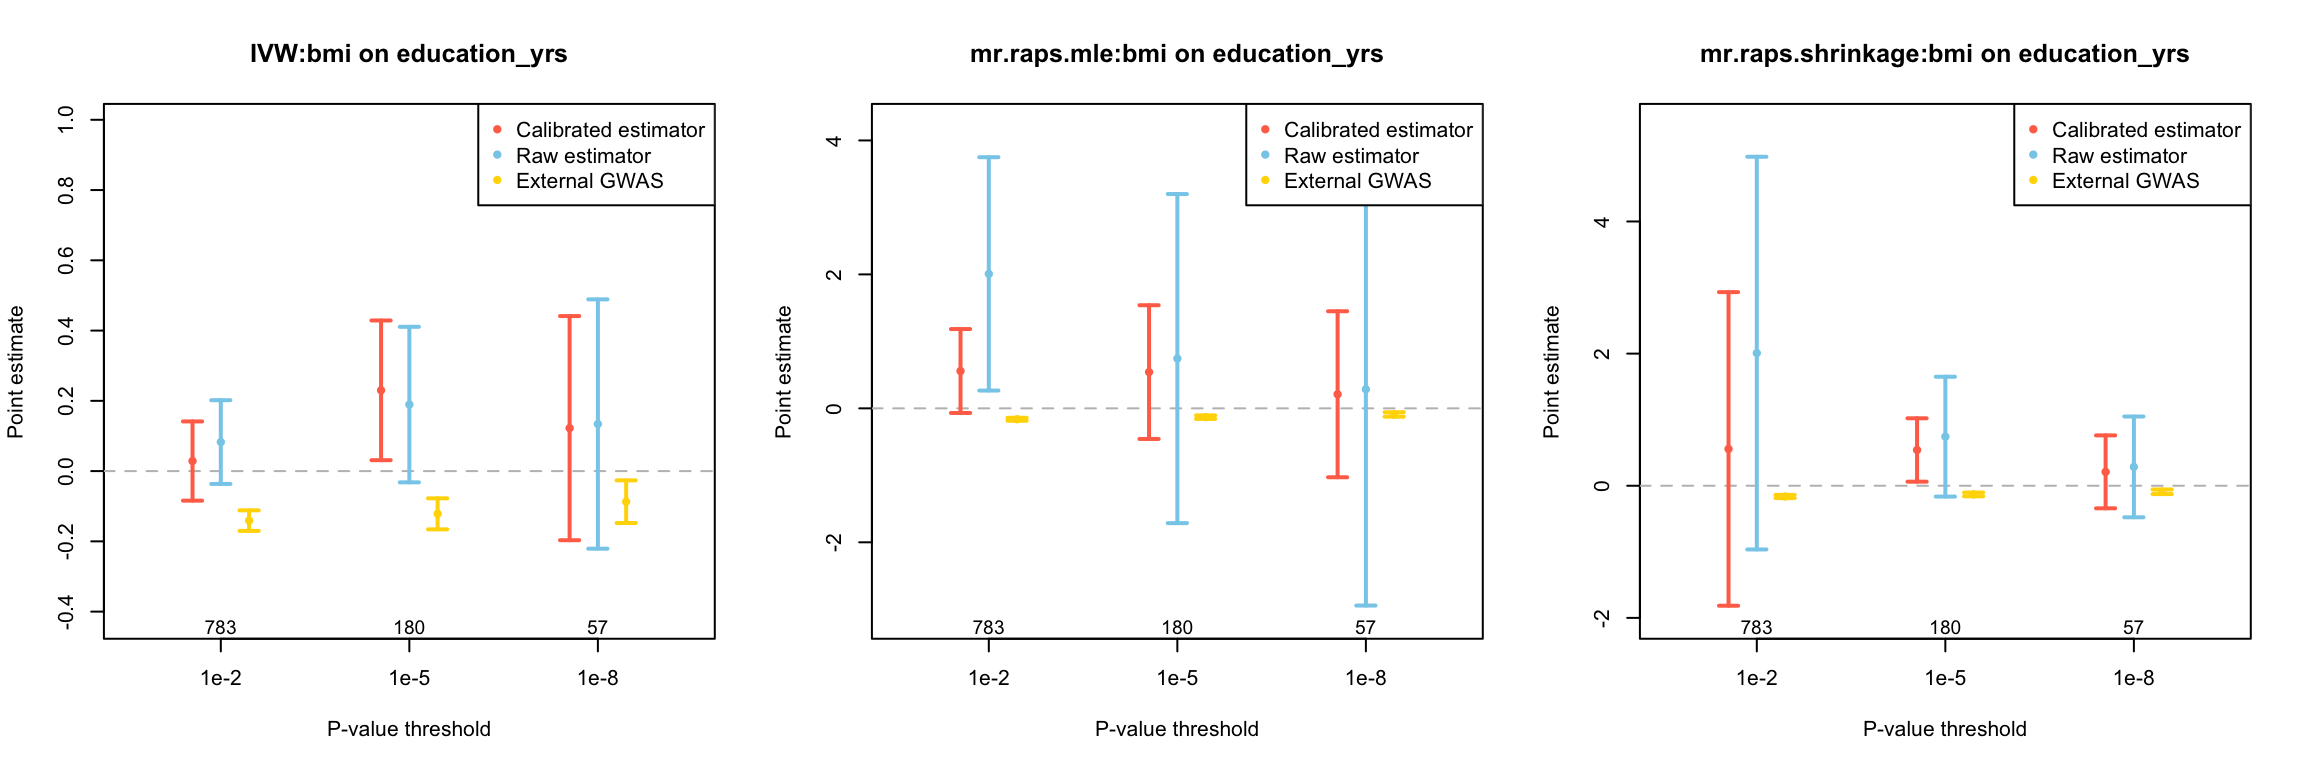
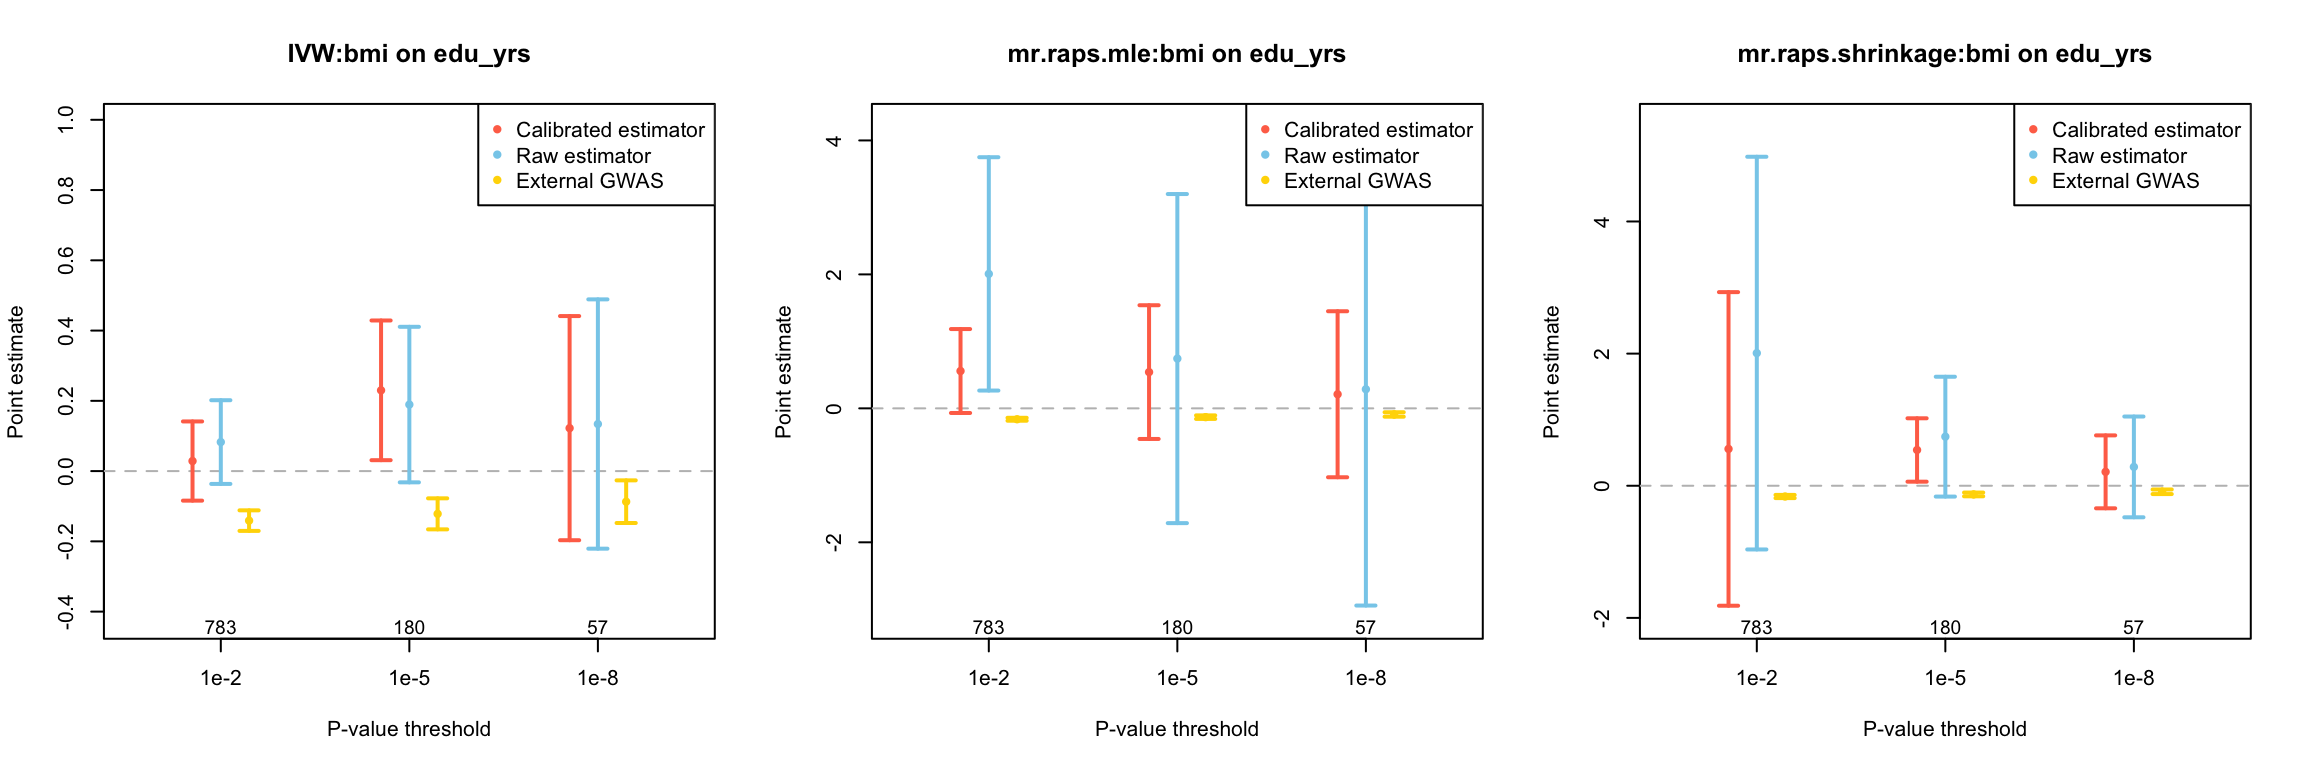
Build site.

Changed region(s): [[0.7188, 0.0625, 0.9688, 0.0938], [0.4062, 0.0625, 0.5938, 0.0938], [0.0938, 0.0625, 0.25, 0.0938]]

diff --git a/docs/real_data_mr_bmi.html b/docs/real_data_mr_bmi.html
@@ -515,16 +515,16 @@ output/ukb_mr_sib1.pdf
 <div class="panel panel-default">
 <div class="panel-heading">
 <p class="panel-title">
-<a data-toggle="collapse" data-parent="#workflowr-checks" href="#strongRepositoryversionstrongahrefhttpsgithubcomyunqiyang0215simulationcalibratedmrtree375a2378e45e9226ecb91e8d280e0e1609888e0btargetblank375a237a"> <span class="glyphicon glyphicon-ok text-success" aria-hidden="true"></span> <strong>Repository version:</strong> <a href="https://github.com/yunqiyang0215/simulation-calibrated-mr/tree/375a2378e45e9226ecb91e8d280e0e1609888e0b" target="_blank">375a237</a> </a>
+<a data-toggle="collapse" data-parent="#workflowr-checks" href="#strongRepositoryversionstrongahrefhttpsgithubcomyunqiyang0215simulationcalibratedmrtree2184d0b54edbf41bb0d4a72387c1e1c2e593053btargetblank2184d0ba"> <span class="glyphicon glyphicon-ok text-success" aria-hidden="true"></span> <strong>Repository version:</strong> <a href="https://github.com/yunqiyang0215/simulation-calibrated-mr/tree/2184d0b54edbf41bb0d4a72387c1e1c2e593053b" target="_blank">2184d0b</a> </a>
 </p>
 </div>
[2 lines of base64/hex data omitted]
 <div class="panel-body">
 <p>
 Great! You are using Git for version control. Tracking code development and connecting the code version to the results is critical for reproducibility.
 </p>
 <p>
-The results in this page were generated with repository version <a href="https://github.com/yunqiyang0215/simulation-calibrated-mr/tree/375a2378e45e9226ecb91e8d280e0e1609888e0b" target="_blank">375a237</a>. See the <em>Past versions</em> tab to see a history of the changes made to the R Markdown and HTML files.
+The results in this page were generated with repository version <a href="https://github.com/yunqiyang0215/simulation-calibrated-mr/tree/2184d0b54edbf41bb0d4a72387c1e1c2e593053b" target="_blank">2184d0b</a>. See the <em>Past versions</em> tab to see a history of the changes made to the R Markdown and HTML files.
 </p>
 <p>
 Note that you need to be careful to ensure that all relevant files for the analysis have been committed to Git prior to generating the results (you can use <code>wflow_publish</code> or <code>wflow_git_commit</code>). workflowr only checks the R Markdown file, but you know if there are other scripts or data files that it depends on. Below is the status of the Git repository when the results were generated:
@@ -537,8 +537,12 @@ Ignored files:
     Ignored:    data/.DS_Store
     Ignored:    scripts/.DS_Store
 
+Untracked files:
+    Untracked:  output/ukb_mr_sib1.pdf
+    Untracked:  output/ukb_mr_sib2.pdf
+    Untracked:  output/ukb_mr_trio1.pdf
+
 Unstaged changes:
-    Modified:   analysis/real_data_mr_height.Rmd
     Deleted:    scripts/real_data_mr_bmi.Rmd
 
 </code></pre>
@@ -578,6 +582,40 @@ Message
 </tr>
 </thead>
 <tbody>
+<tr>
+<td>
+Rmd
+</td>
+<td>
+<a href="https://github.com/yunqiyang0215/simulation-calibrated-mr/blob/2184d0b54edbf41bb0d4a72387c1e1c2e593053b/analysis/real_data_mr_bmi.Rmd" target="_blank">2184d0b</a>
+</td>
+<td>
+yunqiyang0215
+</td>
+<td>
+2024-08-08
+</td>
+<td>
+wflow_publish("analysis/real_data_mr_bmi.Rmd")
+</td>
+</tr>
+<tr>
+<td>
+html
+</td>
+<td>
+<a href="https://rawcdn.githack.com/yunqiyang0215/simulation-calibrated-mr/047274ac5951f9d35ded3d62b3d72f196574804e/docs/real_data_mr_bmi.html" target="_blank">047274a</a>
+</td>
+<td>
+yunqiyang0215
+</td>
+<td>
+2024-08-08
+</td>
+<td>
+Build site.
+</td>
+</tr>
 <tr>
 <td>
 Rmd
@@ -1249,7 +1287,7 @@ for (i in 1:length(pvals)){
   res.mr[[&quot;ext&quot;]][,i] = c(mr@Estimate, mr@StdError)
 }
 
-plot_combined_res(res.mr, main = paste0(&quot;IVW:&quot;, exp, &quot; on &quot;, out))
+plot_combined_res(res.mr, main = paste0(&quot;IVW:&quot;, exp, &quot; on edu_yrs&quot;))
 
 
 ### mr.raps.mle
@@ -1287,7 +1325,7 @@ for (i in 1:length(pvals)){
   res.mr[[&quot;ext&quot;]][,i] = c(point_est, stderr)
 }
 
-plot_combined_res(res.mr, main = paste0(&quot;mr.raps.mle:&quot;, exp, &quot; on &quot;, out))
+plot_combined_res(res.mr, main = paste0(&quot;mr.raps.mle:&quot;, exp, &quot; on edu_yrs&quot;))
 
 # mr.raps.shrinkage
 res.mr = list(cali = matrix(NA, ncol = length(pvals), nrow = 2),
@@ -1337,7 +1375,7 @@ initialization is beta = 0.541319940126336</code></pre>
 sqrt(dat2$raw.var)): The estimating equations might have another finite root.
 The closest root is beta = 0.743037052466926 and the other root is beta =
 -4.13456435980225 and the initialization is beta = 0.743037052466926</code></pre>
-<pre class="r"><code>plot_combined_res(res.mr, main = paste0(&quot;mr.raps.shrinkage:&quot;, exp, &quot; on &quot;, out))</code></pre>
+<pre class="r"><code>plot_combined_res(res.mr, main = paste0(&quot;mr.raps.shrinkage:&quot;, exp, &quot; on edu_yrs&quot;))</code></pre>
 <p><img src="figure/real_data_mr_bmi.Rmd/unnamed-chunk-14-1.png" width="1152" style="display: block; margin: auto;" /></p>
 <p>
 <button type="button" class="btn btn-default btn-xs btn-workflowr btn-workflowr-fig" data-toggle="collapse" data-target="#fig-unnamed-chunk-14-1">
